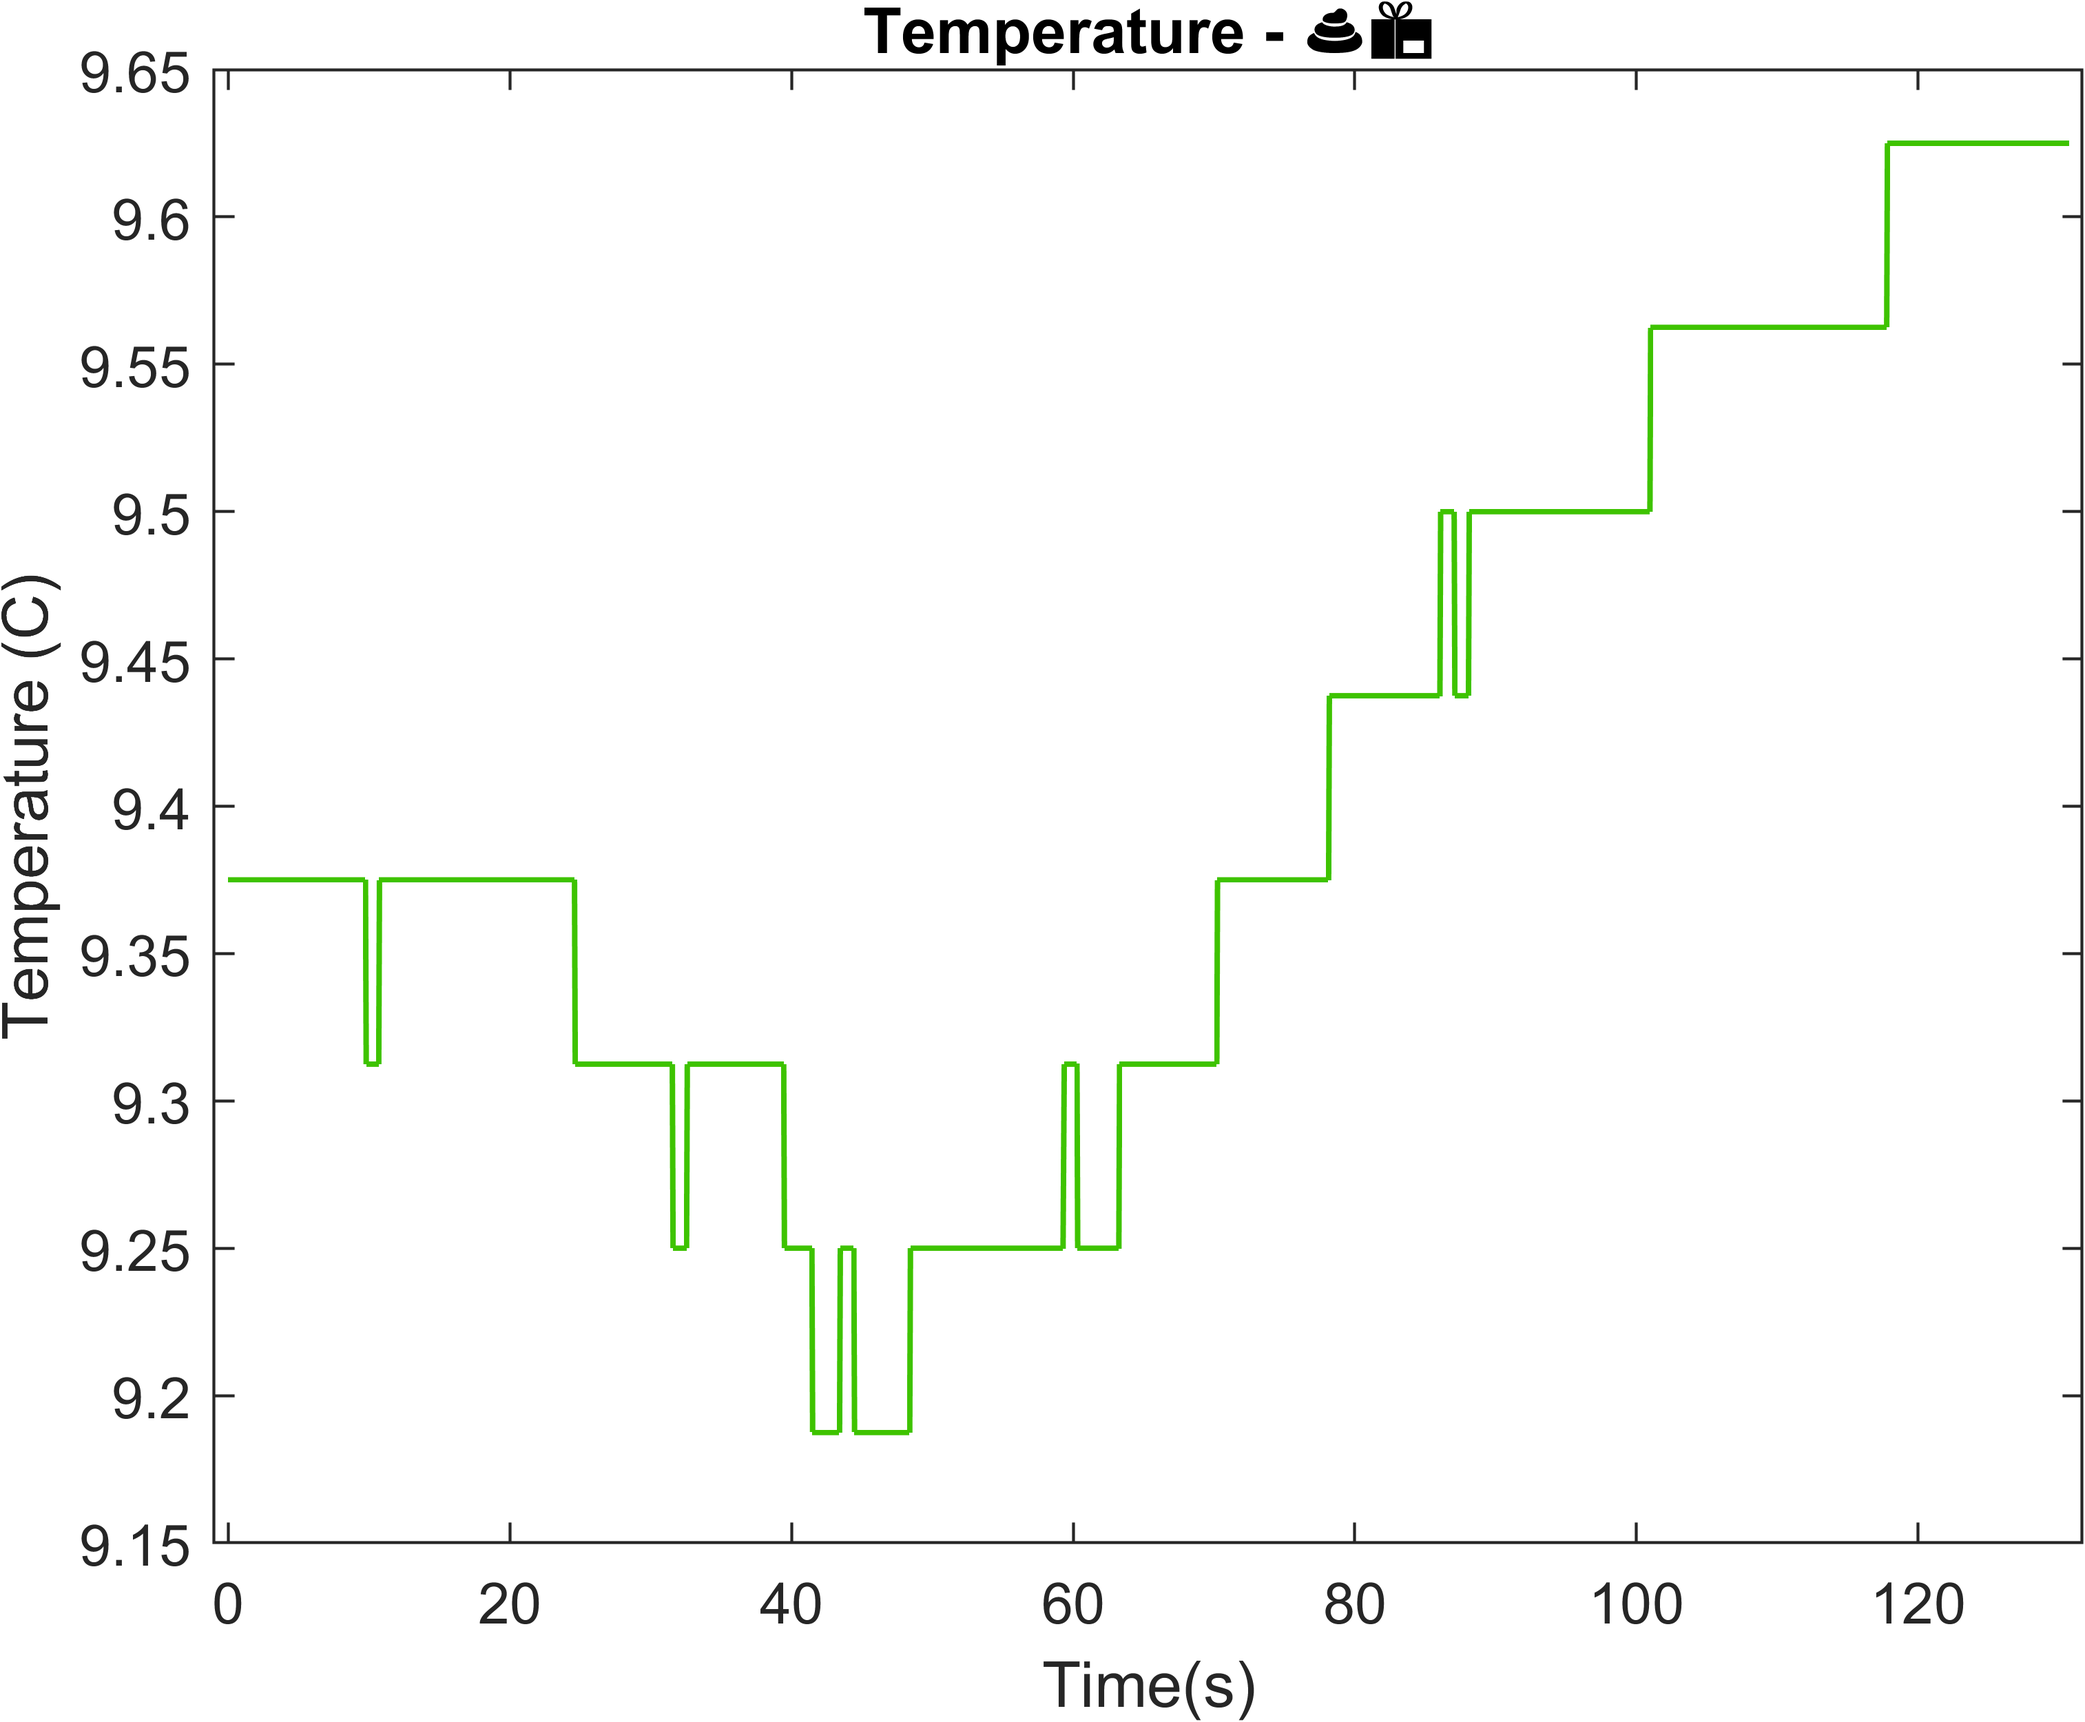
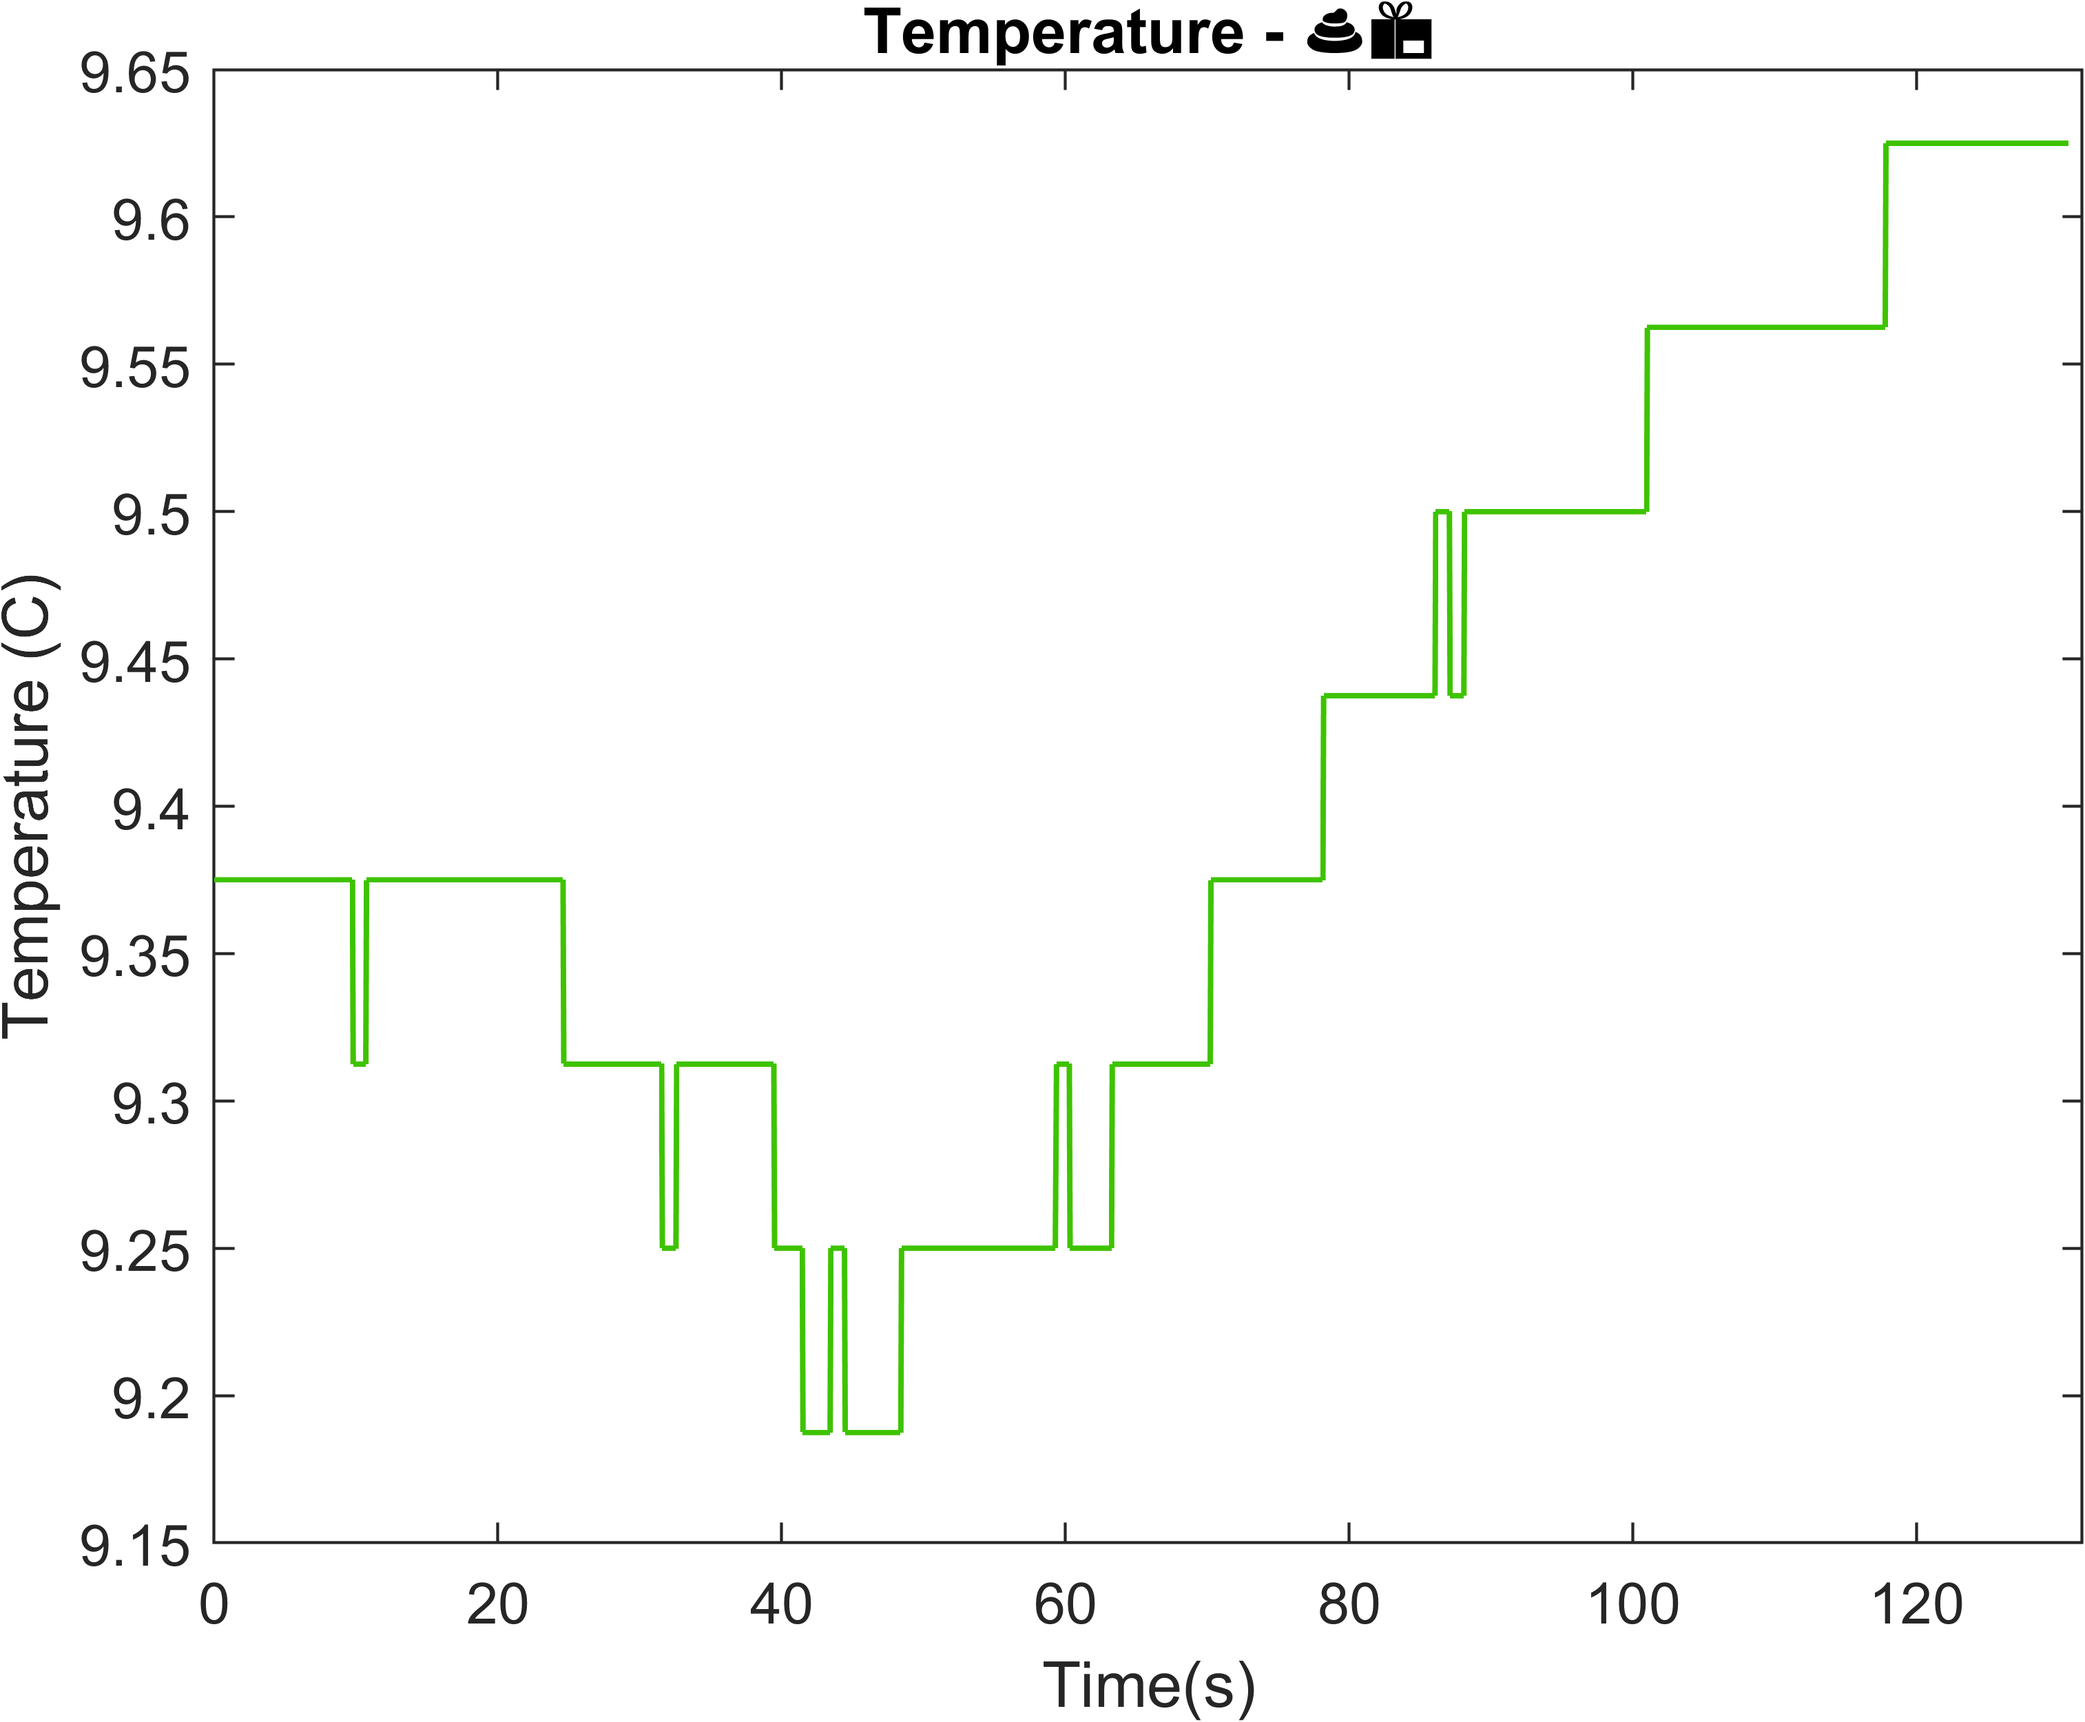
fix xlim

diff --git a/astra.m b/astra.m
@@ -38,7 +38,7 @@ title('Acceleration - 💩📦');
 xlabel('Time (s)')
 ylabel('Acceleration (m/s^2)')
 legend('x', 'y', 'z', 'Magnitude', 'Location', 'best')
-xlim([(min(t)-1), (max(t)+1)])
+xlim([0, (max(t)+1)])
 exportgraphics(gcf, sprintf('%s_acceleration.png', launch), 'Resolution', 600);
 
 figure
@@ -50,7 +50,7 @@ title('Angular Velocity - 💩📦');
 xlabel('Time (s)')
 ylabel('Rotation (deg/s)')
 legend('x', 'y', 'z', 'Location', 'best')
-xlim([(min(t)-1), (max(t)+1)])
+xlim([0, (max(t)+1)])
 exportgraphics(gcf, sprintf('%s_rotation.png', launch), 'Resolution', 600);
 
 figure
@@ -58,7 +58,7 @@ plot(t, pressure, 'LineWidth', lw, 'Color', col1)
 title('Pressure - 💩📦')
 xlabel('Time(s)')
 ylabel('Pressure (Pa)')
-xlim([(min(t)-1), (max(t)+1)])
+xlim([0, (max(t)+1)])
 exportgraphics(gcf, sprintf('%s_pressure.png', launch), 'Resolution', 600);
 
 height = atmospalt(pressure);
@@ -67,7 +67,7 @@ plot(t, height, 'LineWidth', lw, 'Color', col2)
 title('Altitude ASL - 💩📦')
 xlabel('Time(s)')
 ylabel('Altitude (m)')
-xlim([(min(t)-1), (max(t)+1)])
+xlim([0, (max(t)+1)])
 exportgraphics(gcf, sprintf('%s_altitude.png', launch), 'Resolution', 600);
 
 figure
@@ -75,7 +75,7 @@ plot(t, temp, 'LineWidth', lw, 'Color', col3)
 title('Temperature - 💩📦');
 xlabel('Time(s)');
 ylabel('Temperature (C)');
-xlim([(min(t)-1), (max(t)+1)])
+xlim([0, (max(t)+1)])
 exportgraphics(gcf, sprintf('%s_temperature.png', launch), 'Resolution', 600);
 
 figure
